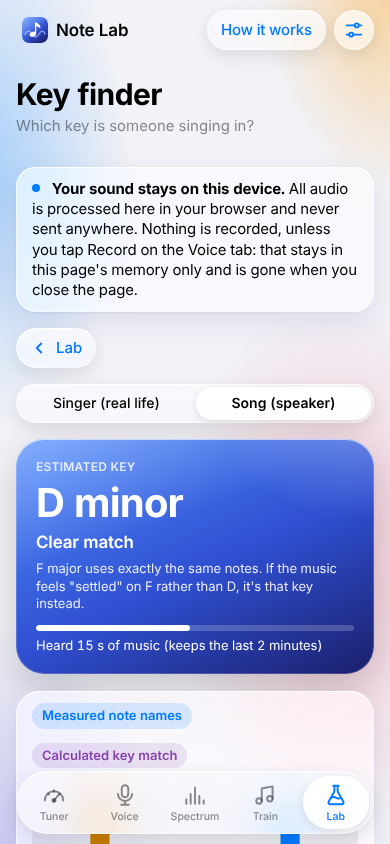
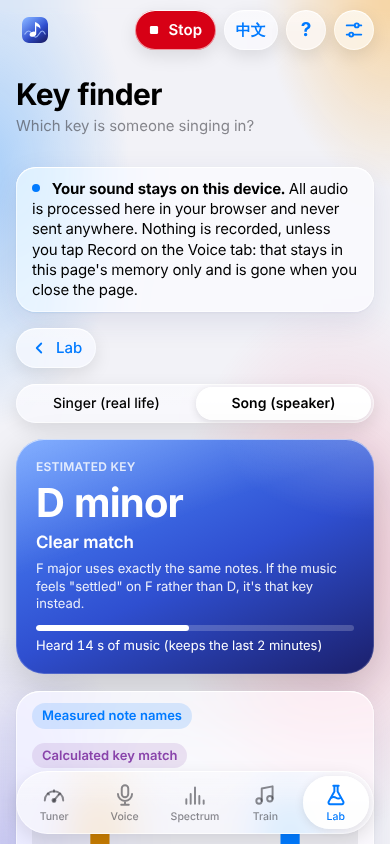
Stop button in the top bar; 中文/EN switch in the app and the guide
Claude-Session: https://claude.ai/code/session_01SxLsZFKHC9uUtv3xK6kA73

Changed region(s): [[0.1538, 0.0, 0.5538, 0.0616], [0.5846, 0.0, 0.8, 0.0616], [0.2154, 0.7393, 0.2462, 0.7701]]

diff --git a/tools/browser-test.js b/tools/browser-test.js
@@ -756,9 +756,17 @@ try {
     await page.click('#open-settings');
     await page.check('input[name="sensitivity"][value="maximum"]');
     await page.click('#close-settings');
-    const maximum = await mostCommonText(page, '#voice-note');
-    report((await page.textContent('#tech-info')).includes('sensitivity maximum') && maximum.text === 'A3' && !errors.length,
-      'sensitivity Maximum: A3 detected too', `${JSON.stringify(maximum.seen)} ${errors.join(' | ')}`);
+    // The file loops every 8 s and starts with 2 s of noise, so read for a whole loop
+    // and only count the moments that aren't "too quiet" (the singing part).
+    const seen = {};
+    for (let i = 0; i < 40; i++) {
+      const [note, details] = await page.evaluate(() => [document.getElementById('voice-note').textContent, document.getElementById('voice-details').textContent]);
+      if (!details.includes('too quiet')) seen[note] = (seen[note] || 0) + 1;
+      await page.waitForTimeout(200);
+    }
+    const counted = Object.values(seen).reduce((a, b) => a + b, 0);
+    report((await page.textContent('#tech-info')).includes('sensitivity maximum') && (seen.A3 || 0) >= 0.6 * counted && counted >= 10 && !errors.length,
+      'sensitivity Maximum: A3 detected too (while singing)', `${JSON.stringify(seen)} ${errors.join(' | ')}`);
     await browser.close();
   }
 
@@ -799,6 +807,39 @@ try {
     await quiet.page.waitForTimeout(1000);
     report(await quiet.page.isHidden('#clip-warning'), 'clipping: no warning at a normal level (−6 dBFS sine)');
     await quiet.browser.close();
+  }
+
+  // 7. Stop button in the top bar, and the language switch (English ↔ 简体中文).
+  {
+    const { browser, page, errors } = await fakeMic('sine-A4.wav');
+    report(await page.isHidden('#stop-button'), 'top bar: no Stop button before listening');
+    await page.click('#start-button');
+    const box = await page.locator('#stop-button').boundingBox();
+    report(await page.isVisible('#stop-button') && box && box.y < 80, 'top bar: Stop button at the top while listening', JSON.stringify(box));
+    const staticBefore = await page.evaluate(() => document.getElementById('settings').innerHTML + document.getElementById('lab').innerHTML);
+    await page.click('#lang-switch');
+    await page.waitForTimeout(800);
+    const title = await page.textContent('#page-title');
+    const details = await page.textContent('#note-details');
+    report(title === '调音器' && (await page.getAttribute('html', 'lang')) === 'zh-Hans' && (await page.textContent('#lang-switch')) === 'EN',
+      'language: switches to Chinese', `${title} · ${details}`);
+    report(details.includes('音分') && await page.isVisible('#stop-button'), 'language: live readings are translated and the microphone keeps running', details);
+    await page.evaluate(() => window.scrollTo(0, 0));
+    await page.screenshot({ path: `${ROOT}docs/screenshots/tuner-zh.png` });
+    await page.click('#tab-voice');
+    await page.waitForTimeout(1000);
+    await page.screenshot({ path: `${ROOT}docs/screenshots/monitor-zh.png` });
+    await page.reload();
+    report((await page.textContent('#page-title')) === '调音器', 'language: remembered after reload');
+    await page.click('#lang-switch');
+    await page.waitForTimeout(300);
+    const staticAfter = await page.evaluate(() => document.getElementById('settings').innerHTML + document.getElementById('lab').innerHTML);
+    report((await page.textContent('#page-title')) === 'Tuner' && staticAfter.replace(/\s+/g, ' ') === staticBefore.replace(/\s+/g, ' ') && !errors.length,
+      'language: back to English restores the original page exactly', errors.join(' | '));
+    await page.click('#start-button');
+    await page.click('#stop-button');
+    report(await page.isVisible('#start-button'), 'top bar: Stop stops listening');
+    await browser.close();
   }
 
   // 2. Permission denied. Headless Chromium has no permission prompt to refuse, so we

diff --git a/index.html b/index.html
@@ -26,8 +26,14 @@
 
   <div class="wrap">
     <header class="appbar">
-      <span class="brand"><img src="icons/icon.svg" alt=""> Note Lab</span>
-      <a class="capsule" href="how-it-works.html">How it works</a>
+      <span class="brand"><img src="icons/icon.svg" alt=""> <span class="brand-text">Note Lab</span></span>
+      <!-- Shown while listening, so it can be reached from anywhere on the page -->
+      <button id="stop-button" type="button" class="capsule stop" hidden>
+        <svg viewBox="0 0 24 24" width="14" height="14" aria-hidden="true"><rect x="5" y="5" width="14" height="14" rx="2.5" fill="currentColor"/></svg>
+        <span>Stop</span>
+      </button>
+      <button id="lang-switch" type="button" class="capsule lang" aria-label="中文 / English" title="中文 / English">中文</button>
+      <a class="capsule icon how-link" href="how-it-works.html" aria-label="How it works" title="How it works">?</a>
       <button id="open-settings" type="button" class="capsule icon" aria-label="Settings" title="Settings">
         <svg viewBox="0 0 24 24" width="22" height="22" fill="none" stroke="currentColor" stroke-width="1.9" stroke-linecap="round" aria-hidden="true">
           <path d="M4 7h9M17 7h3M4 17h3M11 17h9"/><circle cx="15" cy="7" r="2.2"/><circle cx="9" cy="17" r="2.2"/>
@@ -1040,9 +1046,6 @@ best key = the highest r</pre>
           The thin line marks the volume threshold: anything quieter is ignored. With High or Maximum sensitivity it moves by itself to just above the background noise.
           In pitch modes the level is measured after the band filter (hiss and rumble removed), so it reads lower than in Spectrum or the Lab.
         </p>
-        <div class="btn-row">
-          <button id="stop-button" type="button" class="btn btn-danger">Stop listening</button>
-        </div>
         <p id="tech-info" class="small muted tech-info"></p>
         <p id="mic-processing" class="small muted"></p>
       </div>
@@ -1066,7 +1069,7 @@ best key = the highest r</pre>
   </div>
 
   <!-- Floating glass tab bar. Icons are this project's own line drawings. -->
-  <nav id="tabbar" class="tabbar" role="tablist" aria-label="Mode">
+  <nav id="tabbar" class="tabbar" role="tablist" aria-label="Sections">
     <button type="button" role="tab" id="tab-tuner" aria-selected="true" aria-controls="tuner">
       <svg viewBox="0 0 24 24" fill="none" stroke="currentColor" stroke-width="1.8" stroke-linecap="round" stroke-linejoin="round" aria-hidden="true">
         <path d="M3.5 17a8.5 8.5 0 0 1 17 0"/><path d="M12 17l4.2-5.2"/><circle cx="12" cy="17" r="1.4" fill="currentColor"/><path d="M6.4 10.6l1 1M12 7.5V9M17.6 10.6l-1 1"/>

diff --git a/how-it-works.html b/how-it-works.html
@@ -26,6 +26,7 @@
       <svg viewBox="0 0 24 24" width="18" height="18" fill="none" stroke="currentColor" stroke-width="2.4" stroke-linecap="round" stroke-linejoin="round" aria-hidden="true"><path d="M15 6l-6 6 6 6"/></svg>
       Note Lab
     </a>
+    <button id="lang-switch" type="button" class="capsule lang" aria-label="中文 / English" title="中文 / English" style="margin-left: auto">中文</button>
   </header>
   <div class="large-title">
     <h1>How it works</h1>
@@ -155,7 +156,7 @@ frequency      = 440 × 2^((m − 69) ÷ 12)</pre>
     <section class="card">
       <h2>9. What Note Lab can't do (yet)</h2>
       <ul>
-        <li><strong>Chords:</strong> it follows one note at a time. With several notes at once, the result can't be trusted.</li>
+        <li><strong>Chords:</strong> it follows one note at a time. With several notes at once, the result can't be trusted. (Music mode on the Voice tab can guess the melody of a song.)</li>
         <li><strong>Octave mistakes</strong> still happen sometimes, especially with rough or very breathy voices.</li>
         <li><strong>Very low notes</strong> (below about 50 Hz) need the tuner's "Low" range, which reacts a little slower.</li>
         <li><strong>Noisy rooms</strong> make "no clear pitch" more common.</li>
@@ -192,5 +193,11 @@ frequency      = 440 × 2^((m − 69) ÷ 12)</pre>
 
   <footer class="small muted app-footer"><p><a href="./">← Back to Note Lab</a></p></footer>
   </div>
+  <!-- Language switch (English / 简体中文), the same as in the app: js/i18n.js -->
+  <script type="module">
+    import { savedLang, applyLang, setUpLangSwitch } from './js/i18n.js';
+    applyLang(savedLang());
+    setUpLangSwitch(document.getElementById('lang-switch'));
+  </script>
 </body>
 </html>

diff --git a/js/lab/spectrogram-view.js b/js/lab/spectrogram-view.js
@@ -10,6 +10,7 @@
 // sideways (in time) but are sharp up and down (in frequency).
 // ------------------------------------------------------------
 
+import { t as tr } from '../i18n.js'; // canvas labels can't be translated by watching the page
 import { stftResolution } from '../acoustics.js';
 import { computeSpectrum } from '../spectrum.js';
 import { dbToColour } from './colour-map.js';
@@ -124,7 +125,7 @@ export function createSpectrogramTool() {
     const seconds = (((width - LEFT) * 1) * columnMs) / 1000;
     ctx.textBaseline = 'bottom';
     ctx.textAlign = 'left'; ctx.fillText(`← about ${seconds.toFixed(1)} s`, LEFT, height - 2);
-    ctx.textAlign = 'right'; ctx.fillText('now', width - 8, height - 2);
+    ctx.textAlign = 'right'; ctx.fillText(tr('now'), width - 8, height - 2);
   }
 
   function showResolution() {
@@ -144,8 +145,8 @@ export function createSpectrogramTool() {
       ctx.fillRect(x, 0, 1, height - 14);
     }
     ctx.fillStyle = c.muted; ctx.textBaseline = 'bottom';
-    ctx.textAlign = 'left'; ctx.fillText(`${MIN_DB} dBFS (quiet)`, 0, height);
-    ctx.textAlign = 'right'; ctx.fillText(`${MAX_DB} dBFS (loud)`, width, height);
+    ctx.textAlign = 'left'; ctx.fillText(tr(`${MIN_DB} dBFS (quiet)`), 0, height);
+    ctx.textAlign = 'right'; ctx.fillText(tr(`${MAX_DB} dBFS (loud)`), width, height);
   }
 
   const restart = () => { history = null; showResolution(); draw(); };

diff --git a/js/app.js b/js/app.js
@@ -39,6 +39,7 @@ import { createSettingsView } from './settings-view.js';
 import { SETTINGS_KEY, DEFAULT_SETTINGS, validateSettings, voiceRange } from './settings.js';
 import { loadJSON, saveJSON, removeKey } from './storage.js';
 import { registerServiceWorker } from './register-sw.js';
+import { savedLang, applyLang, setUpLangSwitch } from './i18n.js';
 import { createLab } from './lab/lab.js';
 import { createWaveformTool } from './lab/waveform-view.js';
 import { createHarmonicsTool } from './lab/harmonics-view.js';
@@ -365,6 +366,7 @@ function showTab(name) {
   // Voice shows the start card above the monitor (a file can be analysed without the mic).
   startPanel.hidden = settingsOpen || Boolean(mic) || (WORKS_WITHOUT_MIC.includes(name) && name !== 'voice');
   listeningBar.hidden = settingsOpen || !mic;
+  stopButton.hidden = !mic; // the Stop button lives in the top bar
   showTitle(settingsOpen ? 'settings' : name);
   singBack.refresh();
   lab.refresh();
@@ -539,3 +541,7 @@ applyTransparency();
 showSettingsInControls();
 showTab(activeTab);
 registerServiceWorker(byId('offline-status'));
+
+// Language: English or 简体中文 (js/i18n.js). Applied last, after the page is built.
+applyLang(savedLang());
+setUpLangSwitch(byId('lang-switch'));

diff --git a/js/monitor-view.js b/js/monitor-view.js
@@ -14,6 +14,7 @@
 //   review – a recording's or a file's pitch line, with a playhead while playing
 // ------------------------------------------------------------
 
+import { t as tr } from './i18n.js'; // canvas labels can't be translated by watching the page
 import { frequencyToNote, frequencyToNoteNumber, noteNumberToFrequency, noteNumberToName } from './pitch-math.js';
 import { PitchHistory } from './pitch-history.js';
 import { createMonitorGraph } from './monitor-graph.js';
@@ -382,7 +383,7 @@ export function createMonitor({ player, getA4, getMic, getAnalysisConfig, onRevi
     } else {
       const last = live.last;
       const n = last && last.hz > 0 && now - last.t < 200 ? Math.round(frequencyToNoteNumber(last.hz, getA4())) : null;
-      graph.draw(live, now, { labelFor: (t) => (Math.abs(t - now) < 50 ? 'now' : `${((t - now) / 1000).toFixed(0)} s`), currentNote: graph.window.live ? n : null });
+      graph.draw(live, now, { labelFor: (t) => (Math.abs(t - now) < 50 ? tr('now') : `${((t - now) / 1000).toFixed(0)} s`), currentNote: graph.window.live ? n : null });
     }
     showStatus();
     if (now - lastStats > STATS_EVERY_MS) { lastStats = now; showStats(); }

diff --git a/js/lab/room-view.js b/js/lab/room-view.js
@@ -7,6 +7,7 @@
 // tangential/oblique modes and the Schroeder frequency.
 // ------------------------------------------------------------
 
+import { t as tr } from '../i18n.js'; // canvas labels can't be translated by watching the page
 import { speedOfSound, axialModes, allRoomModes, axialNullPositions, coincidentModes, schroederFrequency } from '../acoustics.js';
 import { frequencyToNote, formatNote } from '../pitch-math.js';
 import { prepareCanvas, themeColours } from './canvas.js';
@@ -126,7 +127,7 @@ export function createRoomTool({ player, getA4, onCompare, onRoomChange }) {
       ctx.strokeStyle = c.purple; ctx.setLineDash([5, 4]); ctx.lineWidth = 1.5;
       ctx.beginPath(); ctx.moveTo(x, top); ctx.lineTo(x, bottom); ctx.stroke(); ctx.setLineDash([]);
       ctx.fillStyle = c.purple; ctx.textAlign = x > width - 70 ? 'right' : 'left'; ctx.textBaseline = 'top';
-      ctx.fillText('Schroeder', x + (x > width - 70 ? -4 : 4), top);
+      ctx.fillText(tr('Schroeder'), x + (x > width - 70 ? -4 : 4), top);
     }
     ctx.fillStyle = c.muted; ctx.textAlign = 'right'; ctx.textBaseline = 'bottom';
     ctx.fillText('Hz', right, bottom - 2);

diff --git a/css/style.css b/css/style.css
@@ -74,6 +74,11 @@ input[type="range"] { width: 100%; }
 .monitor-graph, .spectrum-chart { display: block; width: 100%; border-radius: 16px; touch-action: none; }
 /* The pitch monitor: tall, and touch gestures go to the graph (not page scrolling). */
 .monitor-graph { height: min(62vh, 560px); min-height: 300px; -webkit-user-select: none; user-select: none; }
+/* Top bar: Stop (red, while listening), language switch, How it works (?), Settings */
+.appbar .capsule.stop { background: var(--red); color: #fff; font-weight: 600; padding: 0 14px 0 12px; }
+.appbar .capsule.lang { padding: 0 12px; font-weight: 600; }
+.appbar .how-link { font-size: 19px; font-weight: 700; }
+@media (max-width: 420px) { .brand-text { display: none; } } /* room for the buttons on a phone */
 .clip-warning { position: fixed; z-index: 1060; left: 50%; transform: translateX(-50%); top: calc(env(safe-area-inset-top, 0px) + 62px);
   width: min(560px, calc(100% - 32px)); margin: 0; box-shadow: 0 8px 24px rgba(0,0,0,.18); }
 .monitor-toolbar { display: flex; flex-wrap: wrap; gap: 8px; align-items: center; }

diff --git a/js/lab/waveform-view.js b/js/lab/waveform-view.js
@@ -8,6 +8,7 @@
 // If a clear pitch is found, one period T is marked and f = 1/T is shown.
 // ------------------------------------------------------------
 
+import { t as tr } from '../i18n.js'; // canvas labels can't be translated by watching the page
 import { findRisingCrossing, peakAmplitude, frequencyFromPeriod } from '../acoustics.js';
 import { detectPitchYin } from '../yin.js';
 import { levelDb, amplitudeToDb } from '../level.js';
@@ -74,7 +75,7 @@ export function createWaveformTool({ getA4 }) {
     }
     ctx.textAlign = 'right'; // top right, clear of the period label on the left
     ctx.textBaseline = 'top';
-    ctx.fillText(`±${+(1 / gain()).toFixed(2)} of full scale`, width - 6, 3);
+    ctx.fillText(tr(`±${+(1 / gain()).toFixed(2)} of full scale`), width - 6, 3);
 
     // The wave. With many samples per pixel, draw each column's min–max range.
     const yOf = (v) => mid - Math.max(-1, Math.min(1, v * gain())) * (mid - 6);

diff --git a/js/spectrum-view.js b/js/spectrum-view.js
@@ -7,6 +7,7 @@
 // readout of whatever frequency you touch or point at.
 // ------------------------------------------------------------
 
+import { t as tr } from './i18n.js'; // canvas labels can't be translated by watching the page
 import { EQ_BANDS, bandFor, findPeaks, PeakHold, MIN_SPECTRUM_DB } from './spectrum.js';
 import { frequencyToNote } from './pitch-math.js';
 
@@ -109,7 +110,7 @@ export function createSpectrumView({ canvas, peaksList, pointerText, freezeButto
       ctx.fillStyle = c.muted;
       ctx.textAlign = 'center';
       ctx.textBaseline = 'top';
-      if (x2 - x1 > 22) ctx.fillText(SHORT_BAND_NAMES[i], (x1 + x2) / 2, 3);
+      if (x2 - x1 > 22) ctx.fillText(tr(SHORT_BAND_NAMES[i]), (x1 + x2) / 2, 3);
     });
 
     // Grid: dB lines every 20 dB, frequency lines at 1-2-5 steps

diff --git a/js/lab/reality-view.js b/js/lab/reality-view.js
@@ -8,6 +8,7 @@
 // it hears (MEASURED, with YIN and a steady-reading check).
 // ------------------------------------------------------------
 
+import { t as tr } from '../i18n.js';
 import { compareValues, summariseComparisons, toCsv } from '../acoustics.js';
 import { detectPitchYin } from '../yin.js';
 import { PitchSmoother } from '../smoothing.js';
@@ -118,7 +119,7 @@ export function createRealityTool({ isListening, startListening }) {
   });
 
   el.clear.addEventListener('click', () => {
-    if (!entries.length || !confirm('Delete all your comparisons from this device?')) return;
+    if (!entries.length || !confirm(tr('Delete all your comparisons from this device?'))) return;
     entries = []; removeKey(STORE_KEY); render();
   });
 

diff --git a/sw.js b/sw.js
@@ -9,7 +9,7 @@
 // tests/service-worker.test.js checks that FILES lists every app file.
 // ------------------------------------------------------------
 
-const VERSION = 'note-lab-v6'; // v6: music mode (melody guess), clipping warning
+const VERSION = 'note-lab-v7'; // v7: Stop button at the top, 简体中文
 
 const FILES = [
   './',
@@ -31,6 +31,8 @@ const FILES = [
   'js/file-analysis.js',
   'js/filters.js',
   'js/fft.js',
+  'js/i18n-zh.js',
+  'js/i18n.js',
   'js/interval-trainer-view.js',
   'js/key-finder.js',
   'js/key-listener.js',
